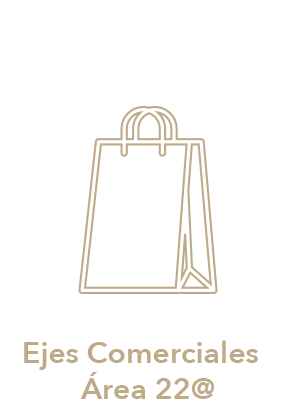
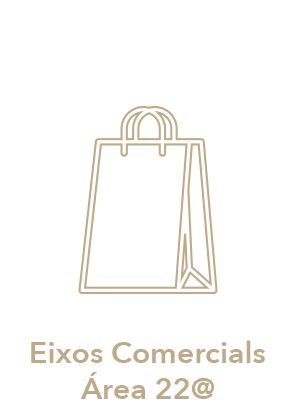
modificacions

Changed region(s): [[0.0608, 0.8086, 0.9122, 0.9019]]

diff --git a/web/assets/css/css.css b/web/assets/css/css.css
@@ -238,6 +238,13 @@ body {
                 -o-transform : scale(1);
 	}
         
+        a.link{
+		color: var(--color-secondary);
+		text-decoration: none;
+	}
+	a.link:hover{
+		color: var(--color-primary);
+	}
 
 
 	/* pull

diff --git a/web/content/home.php b/web/content/home.php
@@ -306,9 +306,9 @@
                                         <? } ?>
                                         
                                         <? if ($app_code_lang == LANG::CAT) { ?>
-                                        La zona del 22@ (Poblenou), está perfectamente equipada con parques, zonas verdes, instalaciones deportivas y zonas de ocio como el Parc del Centre, situado junto a "Urban Lofts BCN", el Parc Diagonal Mar, la Rambla del Poble Nou (centro neurálgico del distrito, repleto de tiendas, bares y restaurantes), la Avenida Diagonal, el Teatro Nacional de Catalunya (TNC) o el Museo del Diseño, entre otros.
+                                        La zona del 22@ (Poblenou), està perfectament equipada amb parcs, zones verdes, instal·lacions esportives i zones d'oci com el Parc del Centre, situat al costat de Urban Lofts BCN, el Parc Diagonal Mar, la Rambla del Poble Nou (centre neuràlgic del districte, ple de botigues, bars i restaurants), l'Avinguda Diagonal, el Teatre Nacional de Catalunya (TNC) o el Museu del Disseny, entre d'altres.
                                         <br/>
-                                        Las mejores playas de Barcelona se encuentran cerca del Urban Lofts BCN, al igual que los puertos deportivos Port Fórum y Port Olímpic.                     
+                                        Les millors platges de Barcelona són a prop de Urban Lofts BCN, igual que els ports esportius Port Fórum i Port Olímpic.                   
                                         <? } ?>
                                         
                                         <? if ($app_code_lang == LANG::EN) { ?>
@@ -516,17 +516,18 @@
                             <div class="tit"> Metro </div>
                             <table>
                                 <tr>
-                                    <td class="dato text-right"> 1.370 m </td>
-                                    <td class="descr text-left"> Glories (Línea 1) </td>
+                                    <td class="dato text-right"> 950 m </td>
+                                    <td class="descr text-left"> Línea 4 (Poble Nou) </td>
                                 </tr>
                                 <tr>
-                                    <td class="dato text-right"> 1.111 m </td>
-                                    <td class="descr text-left"> Clot (Línea 2) </td>
+                                    <td class="dato text-right"> 1.100 m </td>
+                                    <td class="descr text-left"> Línea 1 (Glòries) </td>
                                 </tr>
                                 <tr>
-                                    <td class="dato text-right"> 823 m </td>
-                                    <td class="descr text-left"> Poble Nou (Línea 4) </td>
+                                    <td class="dato text-right"> 1.100 m </td>
+                                    <td class="descr text-left"> Línea 2 (El Clot) </td>
                                 </tr>
+                                
                             </table>
                         </div>
 
@@ -541,24 +542,24 @@
                             <div class="tit"> Bus </div>
                             <table>
                                 <tr>
-                                    <td class="dato text-right"> 349 m </td>
-                                    <td class="descr text-left"> Línea </td>
+                                    <td class="dato text-right"> 130 m </td>
+                                    <td class="descr text-left"> Línea 192 </td>
                                 </tr>
                                 <tr>
-                                    <td class="dato text-right"> 260 m </td>
-                                    <td class="descr text-left"> Línea </td>
+                                    <td class="dato text-right"> 220 m </td>
+                                    <td class="descr text-left"> Línea H12 </td>
                                 </tr>
                                 <tr>
-                                    <td class="dato text-right"> 50 m </td>
-                                    <td class="descr text-left"> Línea </td>
+                                    <td class="dato text-right"> 400 m </td>
+                                    <td class="descr text-left"> Línea H14 </td>
                                 </tr>
                                 <tr>
-                                    <td class="dato text-right"> 547 m </td>
-                                    <td class="descr text-left"> Línea </td>
+                                    <td class="dato text-right"> 400 m </td>
+                                    <td class="descr text-left"> Línea V27 </td>
                                 </tr>
                                 <tr>
-                                    <td class="dato text-right"> 160 m </td>
-                                    <td class="descr text-left"> Línea </td>
+                                    <td class="dato text-right"> 450 m </td>
+                                    <td class="descr text-left"> Línea 7 </td>
                                 </tr>
                             </table>
                         </div>
@@ -574,12 +575,12 @@
                             <div class="tit"> Tram </div>
                             <table>
                                 <tr>
-                                    <td class="dato text-right"> 330 m </td>
-                                    <td class="descr text-left"> Pere IV (línea T4) </td>
+                                    <td class="dato text-right"> 450 m </td>
+                                    <td class="descr text-left"> Línea T4 (Pere IV) </td>
                                 </tr>
                                 <tr>
-                                    <td class="dato text-right"> 340 m </td>
-                                    <td class="descr text-left"> Can Jaumandreu<br/>(Línea 5 y 6) </td>
+                                    <td class="dato text-right"> 300 m </td>
+                                    <td class="descr text-left"> Línea 5 y 6<br/>(Can Jaumandreu) </td>
                                 </tr>
                             </table>
                         </div>                        
@@ -595,44 +596,13 @@
                             <div class="tit"> Bicing </div>
                             <table>
                                 <tr>
-                                    <td class="dato text-right"> 138 m </td>
+                                    <td class="dato text-right"> 160 m </td>
                                     <td class="descr text-left"> Estación Bicing </td>
                                 </tr>
                             </table>
                         </div>                        
 
-                        <!-- item
-                        - - - - - - - - - - - - - - - - - - - - - - - - - - - - - - - - - - - - - - - - - - - - - - - - -->
-                        <div class="item">
-                            <div class="icono"> 
-                                <div class="con-icono">
-                                    <img class="icon-anim" src="<? echo $appFrontUrl ?>/assets/img/com_pie_icon.png" style="width:25px" /> 
-                                </div>
-                            </div>
-                            <div class="tit"> A pie </div>
-                            <table>
-                                <tr>
-                                    <td class="dato text-right"> 6 min. </td>
-                                    <td class="descr text-left"> Metro </td>
-                                </tr>
-                                <tr>
-                                    <td class="dato text-right"> 1/2 min. </td>
-                                    <td class="descr text-left"> Bus </td>
-                                </tr>
-                                <tr>
-                                    <td class="dato text-right"> 6 min. </td>
-                                    <td class="descr text-left"> Centro Comercial </td>
-                                </tr>
-                                <tr>
-                                    <td class="dato text-right"> 3 min. </td>
-                                    <td class="descr text-left"> Parc del Centre </td>
-                                </tr>
-                                <tr>
-                                    <td class="dato text-right"> 3 min. </td>
-                                    <td class="descr text-left"> Tranvía </td>
-                                </tr>
-                            </table>
-                        </div>                        
+                                            
 
                         <!-- item
                         - - - - - - - - - - - - - - - - - - - - - - - - - - - - - - - - - - - - - - - - - - - - - - - - -->
@@ -645,11 +615,44 @@
                             <div class="tit"> Rodalies </div>
                             <table>
                                 <tr>
-                                    <td class="dato text-right"> 1.100 m </td>
+                                    <td class="dato text-right"> 1.200 m </td>
                                     <td class="descr text-left"> Estación Clot-Aragó <br/>Línea R1<br/> Línea R2, R2 Nord </td>
                                 </tr>
                             </table>
-                        </div>                        
+                        </div>         
+                        
+                        <!-- item
+                        - - - - - - - - - - - - - - - - - - - - - - - - - - - - - - - - - - - - - - - - - - - - - - - - -->
+                        <div class="item">
+                            <div class="icono"> 
+                                <div class="con-icono">
+                                    <img class="icon-anim" src="<? echo $appFrontUrl ?>/assets/img/com_pie_icon.png" style="width:25px" /> 
+                                </div>
+                            </div>
+                            <div class="tit"> A pie </div>
+                            <table>
+                                <tr>
+                                    <td class="dato text-right"> 1' </td>
+                                    <td class="descr text-left"> Bus Línea 192 </td>
+                                </tr>
+                                <tr>
+                                    <td class="dato text-right"> 12' </td>
+                                    <td class="descr text-left"> Metro Línea 4 (Poble Nou)</td>
+                                </tr>
+                                <tr>
+                                    <td class="dato text-right"> 6' </td>
+                                    <td class="descr text-left"> Centro Comercial Glòries </td>
+                                </tr>
+                                <tr>
+                                    <td class="dato text-right"> 5' </td>
+                                    <td class="descr text-left"> Parc del Centre </td>
+                                </tr>
+                                <tr>
+                                    <td class="dato text-right"> 6' </td>
+                                    <td class="descr text-left"> Tranvía </td>
+                                </tr>
+                            </table>
+                        </div>    
 
                         <!-- item
                         - - - - - - - - - - - - - - - - - - - - - - - - - - - - - - - - - - - - - - - - - - - - - - - - -->
@@ -1403,7 +1406,7 @@
             </div>
             
             <div class="embed-container video_iframe">
-                <iframe id="yt_video" width="560" height="315" src="https://www.youtube.com/embed/WJhZs7OK4_I?rel=0&showinfo=0&modestbranding=1&wmode=transparent" title="YouTube video player" frameborder="0" allow="accelerometer; autoplay; clipboard-write; encrypted-media; gyroscope; picture-in-picture" allowfullscreen></iframe>
+                <iframe id="yt_video" width="560" height="315" src="https://www.youtube.com/embed/78xTwxCxOCw?rel=0&showinfo=0&modestbranding=1&wmode=transparent" title="YouTube video player" frameborder="0" allow="accelerometer; autoplay; clipboard-write; encrypted-media; gyroscope; picture-in-picture" allowfullscreen></iframe>
             </div>
             
         </div> 
@@ -1444,7 +1447,7 @@
                                     <? } ?>
                                     
                                     <? if ($app_code_lang == LANG::EN) { ?>
-                                    En <strong>Urban Lofts BCN</strong><br/>encontrarás viviendas concebidas para proporcionar la calidez y el confort de un hogar.   
+                                    At <strong>Urban Lofts BCN</strong><br/>you will find homes designed to provide the warmth and comfort of a home. 
                                     <? } ?>
                                 </div>
 
@@ -1558,7 +1561,7 @@
                     <div class="datos w2"> 
                         +34 93 303 03 78
                         <br/>
-                        www.actualadv.com
+                        <a class="link" href="http://actualadv.com" target="_blank">www.actualadv.com</a>
                     </div>
                     
                 </div>

diff --git a/web/lang/frontend.lang.php b/web/lang/frontend.lang.php
@@ -11,7 +11,7 @@
                 $app_lang['acepto'] = "Accept";
                 $app_lang['aviso_legal'] = "Legal Notice";
                 $app_lang['can_ricart'] = "Can Ricart";
-                $app_lang['catalogo'] = "Catálogo";
+                $app_lang['catalogo'] = "Brochure";
                 $app_lang['contacto'] = "Contact";
                 $app_lang['comercializa'] = "Marketed by";
                 $app_lang['comunicaciones'] = "Connections";
@@ -46,8 +46,8 @@
                 $app_lang['seleccionar_planta'] = "Select Floor";
                 $app_lang['seleccionar_zona'] = "Select Zone";
                 $app_lang['servicios_comunes'] = "Common Services";
-                $app_lang['ver_catalogo'] = "Ver Catálogo";
-                $app_lang['ver_tour_360'] = "Ver Tour 360º";
+                $app_lang['ver_catalogo'] = "See Brochure";
+                $app_lang['ver_tour_360'] = "See Tour 360º";
                 $app_lang['ver_video'] = "Watch Video";
                 $app_lang['video'] = "Video";
                 
@@ -107,7 +107,7 @@
                 $app_lang['comunicaciones'] = "Comunicacions";
                 $app_lang['correo_electronico'] = "correu electrònic";
                 $app_lang['datos_enviados'] = "Les dades s'han enviat correctament";
-                $app_lang['descargar_memoria'] = "Descarregar Memòria de Qualitats";
+                $app_lang['descargar_memoria'] = "Descarregar Memòria Qualitats";
                 $app_lang['descargar_planos'] = "Descarregar plànols";
                 $app_lang['diagonal_mar'] = "Diagonal Mar";
                 $app_lang['ejes_comerciales_area_22'] = "Eixos Comercials Àrea 22@";
@@ -124,13 +124,13 @@
                 $app_lang['lofts'] = "Lofts";
                 $app_lang['mensaje'] = "missatge";
                 $app_lang['nombre'] = "nom";
-                $app_lang['ocio_mar'] = "Ocio & Mar";
+                $app_lang['ocio_mar'] = "Oci & Mar";
                 $app_lang['pasar_encima_imagen'] = "Passar per sobre de la imatge per a seleccionar el pis";
                 $app_lang['placa_les_glories'] = "Plaça Les Glòries";
                 $app_lang['planos'] = "Plànos";
                 $app_lang['planta_baja'] = "Planta Baixa";
                 $app_lang['planta_primera'] = "Planta Primera";
-                $app_lang['planta_segunda'] = "Planta Segunda";
+                $app_lang['planta_segunda'] = "Planta Segona";
                 $app_lang['politica_privacidad'] = "política de privacitat";
                 $app_lang['promotor_delegado'] = "Promotor delegat";
                 $app_lang['seleccionar_planta'] = "Seleccionar planta";

diff --git a/web/content/legal.php b/web/content/legal.php
@@ -14,7 +14,7 @@
         <h4>DATOS GENERALES</h4>
         
         <p>PERU 84-102 BARCELONA S.L está domiciliada en la Avenida Diagonal 67 6º planta, con CIF B-66833286. Inscrita en el Registro Mercantil de Barcelona Tomo 45917, Folio 176, Hoja B490020, Inscripción 12º.</p>
-        <p>En la web www.urbanbcn22offices.com hay una serie de contenidos de carácter informativo sobre el proyecto que nos incumbe.</p>
+        <p>En la web www.urbanloftsbcn.com hay una serie de contenidos de carácter informativo sobre el proyecto que nos incumbe.</p>
         <p>Su principal objetivo es facilitar a los clientes y al público en general, una orientación relativa al producto que se ofrece (Oficina y local Restaurante).</p>
 
         <h4>CLÁUSULA POLÍTICA DE PRIVACIDAD WEB</h4>
